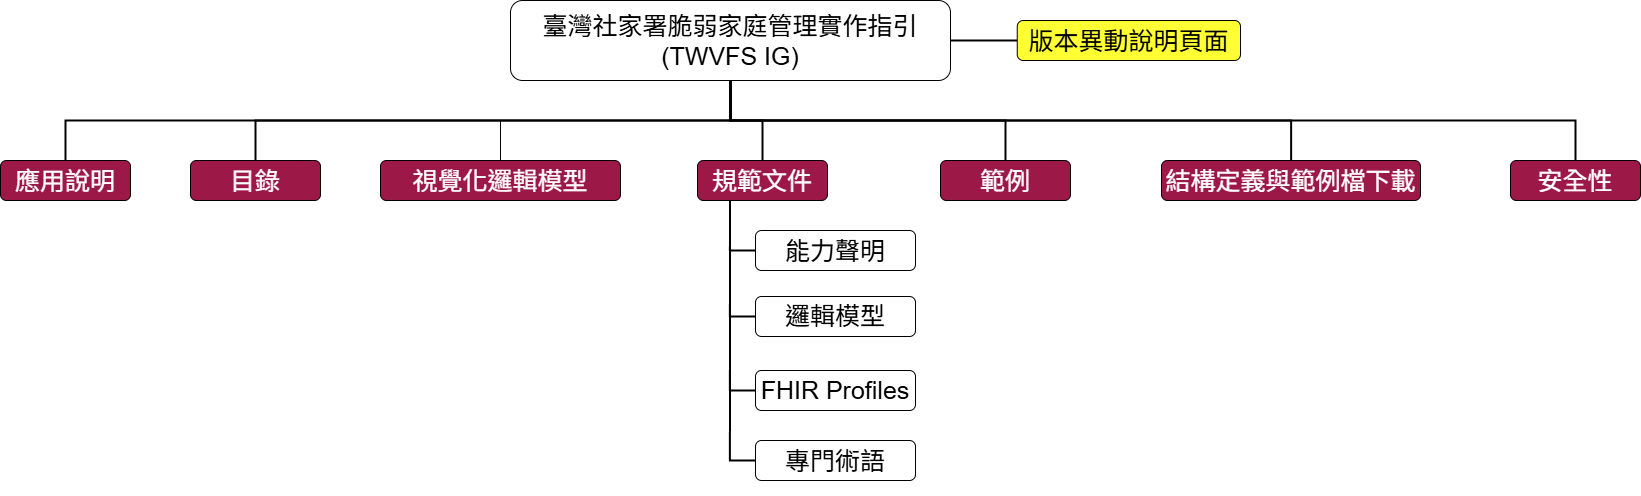
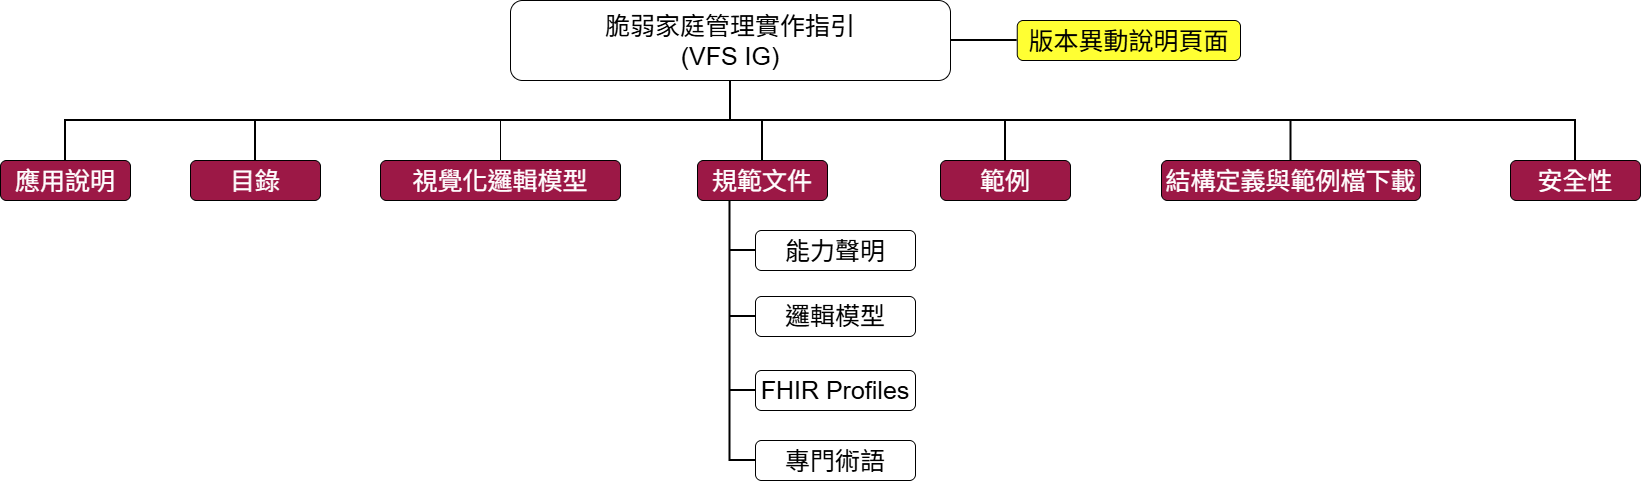
1119

diff --git a/custom-template/content/searchform.html b/custom-template/content/searchform.html
@@ -96,7 +96,7 @@
           <div class="inner-wrapper">
             <div class="col-12">
               <h2>Search {{title}} (Current Build)</h2>
-<iframe src="https://duckduckgo.com/search.html?site=twssbase.sfaa.gov.tw/ig/vfs/&amp;prefill=Search 衛生福利部社會及家庭署脆弱家庭管理實作指引&amp;focus=yes" style="overflow:hidden;margin:0;padding:0;width:408px;height:40px;" frameborder="0"></iframe>
+<iframe src="https://duckduckgo.com/search.html?site=twssbase.sfaa.gov.tw/ig/vfs/&amp;prefill=Search 脆弱家庭管理實作指引&amp;focus=yes" style="overflow:hidden;margin:0;padding:0;width:408px;height:40px;" frameborder="0"></iframe>
               <hr />
               <p> Note: this search searches the curent build of {{title}}. </p>
             </div>
@@ -112,7 +112,7 @@
       <!-- segment-footer --><div class="container">
         <!-- container --><div class="inner-wrapper">
           <p>
-            <span id="ig-footer"> tw.gov.mohw.sfaa.vfs: 衛生福利部社會及家庭署脆弱家庭管理實作指引 </span> &#174;&#169; <a style="color: #81BEF7" href="https://www.sfaa.gov.tw/">衛生福利部社會及家庭署</a> |
+            <span id="ig-footer"> tw.gov.mohw.sfaa.vfs: 脆弱家庭管理實作指引 </span> &#174;&#169; <a style="color: #81BEF7" href="https://www.sfaa.gov.tw/">衛生福利部社會及家庭署</a> |
             <!--  <a style="color: #81BEF7" rel="license"  <href="../license.html"><img style="border-style: none;" alt="CC0" src="cc0.png"/></a> -->
             <a style="color: #81BEF7" rel="license" href="http://hl7.org/fhir/license.html">
               <img style="border-style: none;" alt="CC0" src="cc0.png" />

diff --git a/input/pagecontent/ImplementationGuide-tw.gov.mohw.sfaa.vfs.md b/input/pagecontent/ImplementationGuide-tw.gov.mohw.sfaa.vfs.md
@@ -6,7 +6,7 @@
     </tr>
     <tr>
       <td colspan="4"><i>NPM package name</i>: tw.gov.mohw.sfaa.vfs</td>
-      <td><i>Computable Name</i>: <span style="font-family: monospace;">TWVFS</span></td>
+      <td><i>Computable Name</i>: <span style="font-family: monospace;">VFS</span></td>
     </tr>
   </tbody>
 </table>
